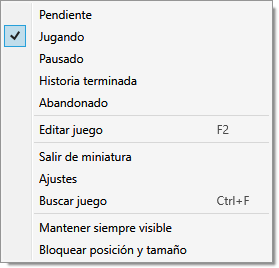
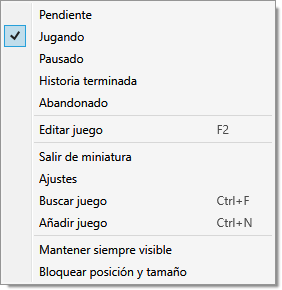
Add games from empty miniature through context menus

Changed region(s): [[0.1147, 0.0299, 0.9462, 0.806], [0.0, 0.8358, 0.9749, 0.9851], [0.0, 0.0597, 0.1147, 0.1791]]

diff --git a/src/Checkpoint.App/NativeSmokeTests.cs b/src/Checkpoint.App/NativeSmokeTests.cs
@@ -308,6 +308,28 @@ public partial class MainWindow
                 t.Foreground is SolidColorBrush brush && brush.Color == ((SolidColorBrush)Application.Current.Resources["TextBrush"]).Color), "miniature names use the readable theme foreground");
             Render(this,"widget-miniature.png");
             MenuItem MiniatureAction(System.Windows.Controls.ContextMenu menu, string text) => menu.Items.OfType<MenuItem>().Single(i => (string?)i.Header == I18n.T(text));
+            var miniatureFixtures = Games.ToList(); Games.Clear(); Persist(); Refresh();
+            Check(GameList.Items.Count == 0 && EmptyPanel.Visibility == Visibility.Collapsed && HeaderArea.Visibility == Visibility.Collapsed &&
+                MiniatureAction(Shell.ContextMenu,"Añadir juego").InputGestureText == "Ctrl+N", "empty miniature keeps its minimal layout and offers add game in the background menu");
+            Shell.ContextMenu.PlacementTarget = Shell; Shell.ContextMenu.IsOpen = true;
+            await Dispatcher.InvokeAsync(UpdateLayout, DispatcherPriority.ContextIdle);
+            RenderElement(Shell.ContextMenu,Path.Combine(outputDirectory,"miniature-empty-menu.png"));
+            RunModal(() => MiniatureAction(Shell.ContextMenu,"Añadir juego").RaiseEvent(new RoutedEventArgs(MenuItem.ClickEvent)), window =>
+            {
+                Input(window,"Nombre del juego").Text = "No crear desde Miniatura"; Click(window,"Cancelar");
+            });
+            Check(Preferences.MiniatureView && Games.Count == 0 && Store.LoadGames().Count == 0, "canceling add from empty miniature leaves no game on disk");
+            RunModal(() => MiniatureAction(Shell.ContextMenu,"Añadir juego").RaiseEvent(new RoutedEventArgs(MenuItem.ClickEvent)), window =>
+            {
+                Input(window,"Nombre del juego").Text = "Juego desde Miniatura";
+                Input(window,"Notas · dónde lo dejaste").Text = "Guardado desde la lista vacía"; Click(window,"Guardar");
+            });
+            await Dispatcher.InvokeAsync(UpdateLayout, DispatcherPriority.ContextIdle);
+            Check(Preferences.MiniatureView && visibleCards.Count == 1 && visibleCards[0].Model.Title == "Juego desde Miniatura" &&
+                Store.LoadGames().Single().Notes == "Guardado desde la lista vacía" && !VisualChildren(GameList).OfType<Image>().Any(),
+                "adding from empty miniature persists a game and shows its row without covers or leaving the view");
+            Games.Clear(); Games.AddRange(miniatureFixtures); Persist(); Refresh();
+            await Dispatcher.InvokeAsync(UpdateLayout, DispatcherPriority.ContextIdle);
             bool priorPin = Preferences.AlwaysOnTop, priorLock = Preferences.PositionLocked;
             Check(MiniatureAction(Shell.ContextMenu,"Mantener siempre visible").IsChecked == priorPin &&
                 MiniatureAction(Shell.ContextMenu,"Bloquear posición y tamaño").IsChecked == priorLock, "miniature quick window actions reflect saved settings");
@@ -462,6 +484,8 @@ public partial class MainWindow
                 MiniatureAction(Shell.ContextMenu,"Buscar juego").InputGestureText == "Ctrl+F", "miniature search action is localized and exposes its shortcut");
             Check((string?)MiniatureAction(miniatureRow.ContextMenu,"Editar juego").Header == "Edit game" &&
                 MiniatureAction(miniatureRow.ContextMenu,"Editar juego").InputGestureText == "F2", "miniature edit action switches to English and exposes F2");
+            Check((string?)MiniatureAction(Shell.ContextMenu,"Añadir juego").Header == "Add game" &&
+                MiniatureAction(miniatureRow.ContextMenu,"Añadir juego").InputGestureText == "Ctrl+N", "miniature add action switches to English and exposes Ctrl+N in both menus");
             RenderElement(miniatureRow.ContextMenu,Path.Combine(outputDirectory,"miniature-state-menu-en.png"));
             miniatureRow.ContextMenu.IsOpen = false;
             Preferences.Language = "es"; ApplyLanguage();

diff --git a/src/Checkpoint.App/MainWindow.xaml.cs b/src/Checkpoint.App/MainWindow.xaml.cs
@@ -342,6 +342,9 @@ public partial class MainWindow : Window
         var search = new System.Windows.Controls.MenuItem { Header = I18n.T("Buscar juego"), InputGestureText = "Ctrl+F" };
         search.Click += (_, _) => FocusCollectionSearch();
         menu.Items.Add(search);
+        var add = new System.Windows.Controls.MenuItem { Header = I18n.T("Añadir juego"), InputGestureText = "Ctrl+N" };
+        add.Click += (_, _) => { menu.IsOpen = false; Dialogs.Edit(this, null); };
+        menu.Items.Add(add);
         menu.Items.Add(new Separator());
         var pin = new System.Windows.Controls.MenuItem { Header = I18n.T("Mantener siempre visible"), IsCheckable = true, IsChecked = Preferences.AlwaysOnTop };
         pin.Click += (_, _) => { Preferences.AlwaysOnTop = pin.IsChecked; ApplyPreferences(); Persist(); };

diff --git a/README.es.md b/README.es.md
@@ -18,12 +18,12 @@ Capturas de la aplicación Windows 0.6.1 renderizadas durante las pruebas nativa
 
 ## Descargar y utilizar
 
-La versión actual es **0.6.10**. En la carpeta `dist` se generan:
+La versión actual es **0.6.11**. En la carpeta `dist` se generan:
 
-Descarga el portable o instalador desde [GitHub Releases](https://github.com/Nicolasmf05/Checkpoint/releases/tag/v0.6.10), o compila con las instrucciones de este repositorio. El workflow **Build and verify** también genera el ZIP y MSI como artefactos cuando finaliza correctamente.
+Descarga el portable o instalador desde [GitHub Releases](https://github.com/Nicolasmf05/Checkpoint/releases/tag/v0.6.11), o compila con las instrucciones de este repositorio. El workflow **Build and verify** también genera el ZIP y MSI como artefactos cuando finaliza correctamente.
 
-- `Checkpoint-0.6.10-win-x64.msi`: instalador por usuario con acceso en el menú Inicio y desinstalación desde Windows.
-- `Checkpoint-0.6.10-win-x64.zip`: edición portable. Extrae el ZIP y abre `Checkpoint/Checkpoint.exe`. Todos los archivos quedan dentro de la carpeta `Checkpoint`.
+- `Checkpoint-0.6.11-win-x64.msi`: instalador por usuario con acceso en el menú Inicio y desinstalación desde Windows.
+- `Checkpoint-0.6.11-win-x64.zip`: edición portable. Extrae el ZIP y abre `Checkpoint/Checkpoint.exe`. Todos los archivos quedan dentro de la carpeta `Checkpoint`.
 - Archivos `.sha256`: comprobación de integridad.
 
 Los paquetes incluyen el runtime de .NET; el usuario no necesita instalar herramientas de desarrollo. La versión x64 está dirigida a Windows 11; Windows 10 no ha sido validado. La compilación ARM64 está preparada en el script, pero no se ha probado en hardware ARM.
@@ -42,6 +42,7 @@ Windows x64 (Windows 11 probado), carpeta accesible para tu usuario y espacio pa
 - **Acciones de ventana en Miniatura:** clic derecho en el fondo o un juego para activar Mantener siempre visible o Bloquear posición y tamaño. Las marcas reflejan los ajustes guardados.
 - **Búsqueda desde cualquier vista:** Ctrl+F abre la búsqueda de la colección y selecciona su consulta actual. Desde Miniatura vuelve a la lista normal y conserva su tamaño pequeño; desde Amigos vuelve a la colección. Los menús de Miniatura también ofrecen Buscar juego.
 - **Editar desde Miniatura:** clic derecho en un juego → Editar juego, o F2 sobre el seleccionado. Abre su ficha sin salir de Miniatura; al cerrar recupera el foco si continúa en Mi lista.
+- **Añadir desde Miniatura:** clic derecho en el fondo o un juego → Añadir juego, también con Mi lista vacía. Abre la ficha habitual sin salir de Miniatura; Ctrl+N sigue disponible.
 - **Teclado en Miniatura:** ↑/↓ recorren juegos, Inicio/Fin van al primero/último y Enter/Espacio abren el menú de estados. Un contorno marca la fila activa; recupera el foco al cerrar el menú o cambiar estado.
 - **Vista Miniatura:** solo nombres y estados en una ventana pequeña y translúcida. Ajustes → Vista de la colección → Miniatura, o cambia con F6. Clic derecho → Salir de miniatura. Tamaño independiente del widget normal; se mueve desde el borde superior. Muestra Mi lista, sin filtros ni descargas de carátulas.
 - **Modo ligero opcional:** Ajustes → Modo ligero (sin carátulas). Oculta imágenes de colección/amigos, evita nuevas descargas y vacía la caché decodificada. Conserva el progreso y los archivos guardados.
@@ -139,7 +140,7 @@ dotnet run --project src/Checkpoint.App -c Release --no-build -- --data-dir "$PW
 
 Usa siempre una carpeta nueva para `--smoke-test`: esta comprobación modifica su biblioteca de prueba y rechaza una carpeta con biblioteca o sesión existentes. El modo `--demo` añade tres juegos de ejemplo únicamente a una biblioteca vacía. No inventa logros. Las pruebas de Steam y las pruebas del diálogo de logros usan respuestas simuladas y no necesitan contraseñas ni claves reales.
 
-`Build.ps1` comprueba también el ZIP recién generado: lo extrae a `.qa`, ejecuta su app autocontenida y valida búsqueda, vistas, reordenación, persistencia, diálogos, secretos, recuperación, copias con imágenes, cuentas y amistades simuladas, y virtualización con 1.003 juegos. Puedes repetir solo esa comprobación con `./scripts/Verify-Package.ps1 -ZipPath ./dist/Checkpoint-0.6.10-win-x64.zip`. Las imágenes y el informe quedan en `.qa/package-…/render`. La ejecución ARM64 necesita un equipo Windows ARM64; en otros equipos se comprueba la estructura del paquete.
+`Build.ps1` comprueba también el ZIP recién generado: lo extrae a `.qa`, ejecuta su app autocontenida y valida búsqueda, vistas, reordenación, persistencia, diálogos, secretos, recuperación, copias con imágenes, cuentas y amistades simuladas, y virtualización con 1.003 juegos. Puedes repetir solo esa comprobación con `./scripts/Verify-Package.ps1 -ZipPath ./dist/Checkpoint-0.6.11-win-x64.zip`. Las imágenes y el informe quedan en `.qa/package-…/render`. La ejecución ARM64 necesita un equipo Windows ARM64; en otros equipos se comprueba la estructura del paquete.
 
 La integración con una cuenta real y la instalación/desinstalación del MSI deben validarse en un entorno de lanzamiento antes de publicar. Consulta [docs/VALIDATION.md](docs/VALIDATION.md).
 
@@ -149,11 +150,11 @@ El proyecto incluye `.gitignore`, licencia MIT, documentación, pruebas y un wor
 
 Publica únicamente los archivos de código y documentación. `.tools`, `.qa`, `dist`, `.env`, bases de datos y tokens son locales y se excluyen.
 
-También se entrega `dist/Checkpoint-source-0.6.10.zip`, con el código limpio para trasladarlo a GitHub. `scripts/Export-Source.ps1` lo regenera usando ripgrep y las exclusiones de `.gitignore`. La versión de los ejecutables, nombres de archivo e instalador se toma de `Directory.Build.props`.
+También se entrega `dist/Checkpoint-source-0.6.11.zip`, con el código limpio para trasladarlo a GitHub. `scripts/Export-Source.ps1` lo regenera usando ripgrep y las exclusiones de `.gitignore`. La versión de los ejecutables, nombres de archivo e instalador se toma de `Directory.Build.props`.
 
 ## Próximas versiones
 
-El backend de cuentas y amistades está desplegado en Supabase y la app 0.6.10 incorpora la pestaña Amigos. Han pasado 33 comprobaciones SQL y 7 HTTP del backend; queda validar el registro y el intercambio de imágenes con dos cuentas reales. El estado, configuración pública y pasos pendientes están en [docs/SUPABASE.md](docs/SUPABASE.md).
+El backend de cuentas y amistades está desplegado en Supabase y la app 0.6.11 incorpora la pestaña Amigos. Han pasado 33 comprobaciones SQL y 7 HTTP del backend; queda validar el registro y el intercambio de imágenes con dos cuentas reales. El estado, configuración pública y pasos pendientes están en [docs/SUPABASE.md](docs/SUPABASE.md).
 
 Notificaciones, estadísticas mensuales y sincronización de la biblioteca entre equipos quedan para futuras versiones. Consulta [docs/ROADMAP.md](docs/ROADMAP.md) y [CHANGELOG.md](CHANGELOG.md).
 

diff --git a/README.md b/README.md
@@ -18,13 +18,13 @@ Captures use real WPF controls rendered during native tests. Games, users and fr
 
 ## Download and run
 
-Current version: **0.6.10**. Build outputs in `dist`:
+Current version: **0.6.11**. Build outputs in `dist`:
 
-- `Checkpoint-0.6.10-win-x64.zip`: portable edition. Extract the ZIP and open `Checkpoint/Checkpoint.exe`. All files stay inside the `Checkpoint` folder.
-- `Checkpoint-0.6.10-win-x64.msi`: per-user installer with Start menu shortcut and Windows uninstall support.
+- `Checkpoint-0.6.11-win-x64.zip`: portable edition. Extract the ZIP and open `Checkpoint/Checkpoint.exe`. All files stay inside the `Checkpoint` folder.
+- `Checkpoint-0.6.11-win-x64.msi`: per-user installer with Start menu shortcut and Windows uninstall support.
 - `.sha256` files: integrity checksums.
 
-Download the portable ZIP or MSI from [GitHub Releases](https://github.com/Nicolasmf05/Checkpoint/releases/tag/v0.6.10), or build from source below. The **Build and verify** GitHub Actions workflow also produces artifacts after a successful run. Packages include the .NET runtime; end users need no development tools. Windows 11 x64 is the target. Windows 10 and ARM64 hardware have not been validated; ARM64 packaging is supported. The MSI and EXE are unsigned; Windows may warn or block them. See [Windows security messages](docs/en/WINDOWS-SECURITY.md). No private certificates are included.
+Download the portable ZIP or MSI from [GitHub Releases](https://github.com/Nicolasmf05/Checkpoint/releases/tag/v0.6.11), or build from source below. The **Build and verify** GitHub Actions workflow also produces artifacts after a successful run. Packages include the .NET runtime; end users need no development tools. Windows 11 x64 is the target. Windows 10 and ARM64 hardware have not been validated; ARM64 packaging is supported. The MSI and EXE are unsigned; Windows may warn or block them. See [Windows security messages](docs/en/WINDOWS-SECURITY.md). No private certificates are included.
 
 
 Microsoft Store packaging is being prepared separately: [MSIX build and submission guide](docs/en/MICROSOFT-STORE.md). The unsigned MSIX preview is for developer validation and does not remove warnings from the current GitHub downloads.
@@ -39,6 +39,7 @@ Windows x64 (Windows 11 tested), a user-writable folder and disk space. **No .NE
 - **Miniature window actions:** right-click the background or a game to toggle Always on top or Lock position and size. Checked values reflect saved settings.
 - **Search from any view:** Ctrl+F opens collection search and selects its current query. From Miniature it returns to the normal list, preserving the small size for next time; from Friends it returns to the collection. Miniature menus also offer Search games.
 - **Edit from Miniature:** right-click a game → Edit game, or F2 on the selected game. Opens its normal editor without leaving Miniature; closing returns focus if it remains in My list.
+- **Add from Miniature:** right-click the background or a game → Add game, including when My list is empty. Opens the normal editor without leaving Miniature; Ctrl+N remains available.
 - **Miniature keyboard controls:** Up/Down select a game, Home/End jump to the first/last, Enter/Space open its state menu. A focus outline marks the active row; focus returns after closing the menu or changing state.
 - **Miniature view:** only game names and states in a small translucent window. Settings → Collection view → Miniature, or cycle with F6. Right-click → Exit miniature view. Resize it independently from the normal widget; drag the top edge. Shows My list with no filters or cover downloads.
 - **Optional lightweight mode:** Settings → Lightweight mode (no covers). Hides collection/friend covers, skips new image downloads and clears the decoded cover cache. Progress and saved images are preserved.
@@ -118,13 +119,13 @@ dotnet run --project src/Checkpoint.App -c Release --no-build -- --data-dir "$PW
 
 Native tests reject existing libraries/sessions/publications and exercise real controls with simulated Steam/social responses. Demo adds examples only to an empty library. Build extracts and tests its self-contained ZIP, including language switching and virtualized rendering of 1,003 games. Reports and captures: `.qa/package-…/render`.
 
-Repeat using `./scripts/Verify-Package.ps1 -ZipPath ./dist/Checkpoint-0.6.10-win-x64.zip`. ARM64 execution needs Windows ARM64 hardware. [Validation](docs/en/VALIDATION.md) lists remaining real-account/Storage and clean-machine MSI checks.
+Repeat using `./scripts/Verify-Package.ps1 -ZipPath ./dist/Checkpoint-0.6.11-win-x64.zip`. ARM64 execution needs Windows ARM64 hardware. [Validation](docs/en/VALIDATION.md) lists remaining real-account/Storage and clean-machine MSI checks.
 
 ## GitHub
 
 MIT license, source, docs and build workflow are included. Set repository variable `CHECKPOINT_SERVICE_URL` for a hosted Steam service. The workflow uploads artifacts but does not publish a release automatically. Never upload `.tools`, `.qa`, `dist`, `.env`, databases, tokens or private keys.
 
-`scripts/Export-Source.ps1` creates `dist/Checkpoint-source-0.6.10.zip` using ripgrep and `.gitignore`. Versions come from `Directory.Build.props`. Built-in translations live in `src/Checkpoint.Core/Localization/en.json`, XAML keys in `src/Checkpoint.App/LocalizationKeys.json`. User content and API wire values are not translated.
+`scripts/Export-Source.ps1` creates `dist/Checkpoint-source-0.6.11.zip` using ripgrep and `.gitignore`. Versions come from `Directory.Build.props`. Built-in translations live in `src/Checkpoint.Core/Localization/en.json`, XAML keys in `src/Checkpoint.App/LocalizationKeys.json`. User content and API wire values are not translated.
 
 See [roadmap](docs/en/ROADMAP.md) and [changelog](CHANGELOG.md). Notifications, monthly statistics and private-library cloud sync are future work.
 

diff --git a/docs/DOWNLOAD-NOTES.md b/docs/DOWNLOAD-NOTES.md
@@ -35,6 +35,8 @@ Las actualizaciones conservan el juego seleccionado y recuperan su foco de tecla
 
 **Clic derecho en un juego → Editar juego, o F2 sobre el seleccionado** abre su ficha habitual manteniendo Miniatura activa. Puedes editar notas, tareas y los demás campos del editor. Guardar aplica los cambios; Cancelar conserva los datos guardados. Al cerrar recupera el foco si el juego sigue visible. Desmarcar Mostrar en Mi lista retira su fila de Miniatura sin borrar el juego de la biblioteca. Las filas siguen mostrando solo nombre y estado.
 
+**Clic derecho en el fondo o un juego → Añadir juego**, también con la lista vacía. Se abre la ficha habitual manteniendo Miniatura activa. Guardar crea el juego y Cancelar no deja una entrada. Los juegos marcados Mostrar en Mi lista aparecen como filas de nombre/estado. Ctrl+N sigue disponible. La vista vacía conserva su interfaz mínima.
+
 ## Modo ligero opcional
 
 Actívalo en **Ajustes → Modo ligero (sin carátulas)**. Oculta las carátulas de colección y amigos, evita nuevas descargas de imágenes y vacía la caché de imágenes decodificadas. Los juegos, objetivos, progreso, archivos de carátulas y publicaciones se conservan; puedes desactivarlo cuando quieras. La elección queda guardada. Una descarga ya iniciada puede terminar. No desactiva Steam, la sincronización ni el envío de publicaciones pendientes.

diff --git a/docs/en/DOWNLOAD-NOTES.md b/docs/en/DOWNLOAD-NOTES.md
@@ -35,6 +35,8 @@ Updates preserve the selected game and restore its keyboard focus only if the li
 
 **Right-click a game → Edit game, or F2 on the selected game** opens its normal editor while keeping Miniature active. Edit notes, tasks and other normal editor fields. Save applies changes; Cancel preserves the saved data. Closing restores game focus if it remains visible. Unchecking Show in My list removes its Miniature row without deleting the library entry. Rows still show only name and state.
 
+**Right-click the background or a game → Add game**, also available with an empty list. The normal editor opens while Miniature stays active. Save creates the game; Cancel leaves no entry. Games marked Show in My list appear as name/state rows. Ctrl+N remains available. No extra empty-state controls are added.
+
 ## Optional lightweight mode
 
 Enable **Settings → Lightweight mode (no covers)**. Collection and friend covers are hidden, new image downloads are skipped and the decoded image cache is cleared. Games, goals, progress, saved cover files and publications are preserved; you can turn it off at any time. The choice is saved. An already-started download may finish. Steam, synchronization and pending publication delivery remain enabled.

diff --git a/docs/VALIDATION.md b/docs/VALIDATION.md
@@ -2,6 +2,10 @@
 
 # Validación
 
+## 0.6.11 — alta desde Miniatura vacía
+
+Han pasado 284 comprobaciones: 108 de biblioteca, 15 Node, 14 Edge y 147 WPF. Cuatro nuevas prueban el menú de alta con Miniatura vacía, cancelación sin datos en disco, guardado de notas/nueva fila sin carátulas ni cambio de vista y traducción inglesa con Ctrl+N en ambos menús. Se abre el menú real del fondo y se capturan los controles nativos con datos aislados. Siguen pendientes teclado/arrastre físicos, instalación y cuentas reales.
+
 ## 0.6.10 — edición desde Miniatura
 
 Han pasado 280 comprobaciones: 108 de biblioteca, 15 Node, 14 Edge y 143 WPF. Cinco nuevas prueban apertura de la ficha del juego desde el menú, guardado de notas y foco en el mismo juego, F2/cancelación, retirada de Mi lista con selección limpia y traducción inglesa/atajo. Se usan diálogos y controles reales con datos aislados; no sustituye teclado físico. Capturas nativas de menús en ambos idiomas. Siguen pendientes instalación y cuentas reales.

diff --git a/docs/en/SCREENSHOTS.md b/docs/en/SCREENSHOTS.md
@@ -46,9 +46,9 @@ Only name and state. Enable from Settings or F6; right-click to exit.
 
 ![Miniature](../screenshots/widget-miniature-en.png)
 
-## Change state in Miniature — 0.6.5
+## Miniature game menu — 0.6.11
 
-Right-click a game. Its current state is checked; rows still show only name and state.
+The menu includes states, editing, search, adding and window settings; rows still show only name and state.
 
 ![State menu](../screenshots/miniature-state-menu-en.png)
 
@@ -57,3 +57,10 @@ Right-click a game. Its current state is checked; rows still show only name and 
 The outline marks the focused row. Up/Down and Home/End select games; Enter/Space open the menu. Capture uses Spanish.
 
 ![Keyboard focus](../screenshots/widget-miniature-keyboard.png)
+
+
+## Add from empty Miniature — 0.6.11
+
+Right-click the background → Add game, including with no rows. This native capture uses Spanish.
+
+![Empty Miniature menu, Spanish capture](../screenshots/miniature-empty-menu.png)

diff --git a/docs/SCREENSHOTS.md b/docs/SCREENSHOTS.md
@@ -42,9 +42,9 @@ Solo nombre y estado. Se activa en Ajustes o con F6; clic derecho para salir.
 
 ![Miniatura](screenshots/widget-miniature.png)
 
-## Cambiar estado desde Miniatura — 0.6.5
+## Menú de juego en Miniatura — 0.6.11
 
-Clic derecho en un juego. El estado actual aparece marcado; las filas siguen mostrando solo nombre y estado.
+El menú incluye estados, edición, búsqueda, alta y ajustes de ventana; las filas siguen mostrando solo nombre y estado.
 
 ![Menú de estados](screenshots/miniature-state-menu.png)
 
@@ -53,3 +53,10 @@ Clic derecho en un juego. El estado actual aparece marcado; las filas siguen mos
 El contorno indica la fila enfocada. ↑/↓ e Inicio/Fin recorren juegos; Enter/Espacio abren su menú.
 
 ![Foco de teclado](screenshots/widget-miniature-keyboard.png)
+
+
+## Añadir con Miniatura vacía — 0.6.11
+
+Clic derecho en el fondo → Añadir juego, también sin ninguna fila.
+
+![Menú de Miniatura vacía](screenshots/miniature-empty-menu.png)

diff --git a/docs/en/VALIDATION.md b/docs/en/VALIDATION.md
@@ -1,5 +1,9 @@
 # Validation
 
+## 0.6.11 — adding from empty Miniature
+
+284 checks passed: 108 core, 15 Node, 14 Edge and 147 native WPF. Four new checks cover Add game in empty Miniature, cancellation with no data on disk, saved notes/new row without covers or changing view, and English labels/Ctrl+N in both menus. The real background menu is opened and native controls captured using isolated data. Physical keyboard/drag, installed packages and real accounts remain pending.
+
 ## 0.6.10 — editing from Miniature
 
 280 checks passed: 108 core, 15 Node, 14 Edge and 143 native WPF. Five new checks exercise the game-menu editor, persisted notes and same-game focus, F2/cancellation, untracking with cleared selection and English label/shortcut. Real dialogs and controls use isolated data; this does not replace physical keyboard testing. Native menus captured in both languages. Installed packages and real accounts remain pending.

diff --git a/CHANGELOG.es.md b/CHANGELOG.es.md
@@ -2,6 +2,11 @@
 
 # Historial de cambios
 
+## 0.6.11 — 2026-10-03
+
+- Menús de fondo/juego de Miniatura incluyen Añadir juego y el atajo Ctrl+N, también con Mi lista vacía.
+- Abre la ficha habitual sin salir de Miniatura; Guardar añade la fila y Cancelar no deja datos. La vista vacía conserva su interfaz mínima.
+
 ## 0.6.10 — 2026-10-03
 
 - Menú de juego de Miniatura incluye Editar juego; F2 abre la ficha seleccionada. Notas/tareas y acciones habituales del editor sin cambiar de vista ni añadir controles a las filas.

diff --git a/CHANGELOG.md b/CHANGELOG.md
@@ -2,6 +2,11 @@
 
 **English** · [Español](CHANGELOG.es.md)
 
+## 0.6.11 — 2026-10-03
+
+- Miniature background/game menus include Add game with its Ctrl+N hint, including when My list is empty.
+- Uses the normal editor without leaving Miniature; saving adds the row, canceling leaves no data. Empty view keeps its minimal layout.
+
 ## 0.6.10 — 2026-10-03
 
 - Miniature game menus add Edit game; F2 opens the selected game editor. Notes/tasks and normal editor actions are available without changing view or adding row controls.
